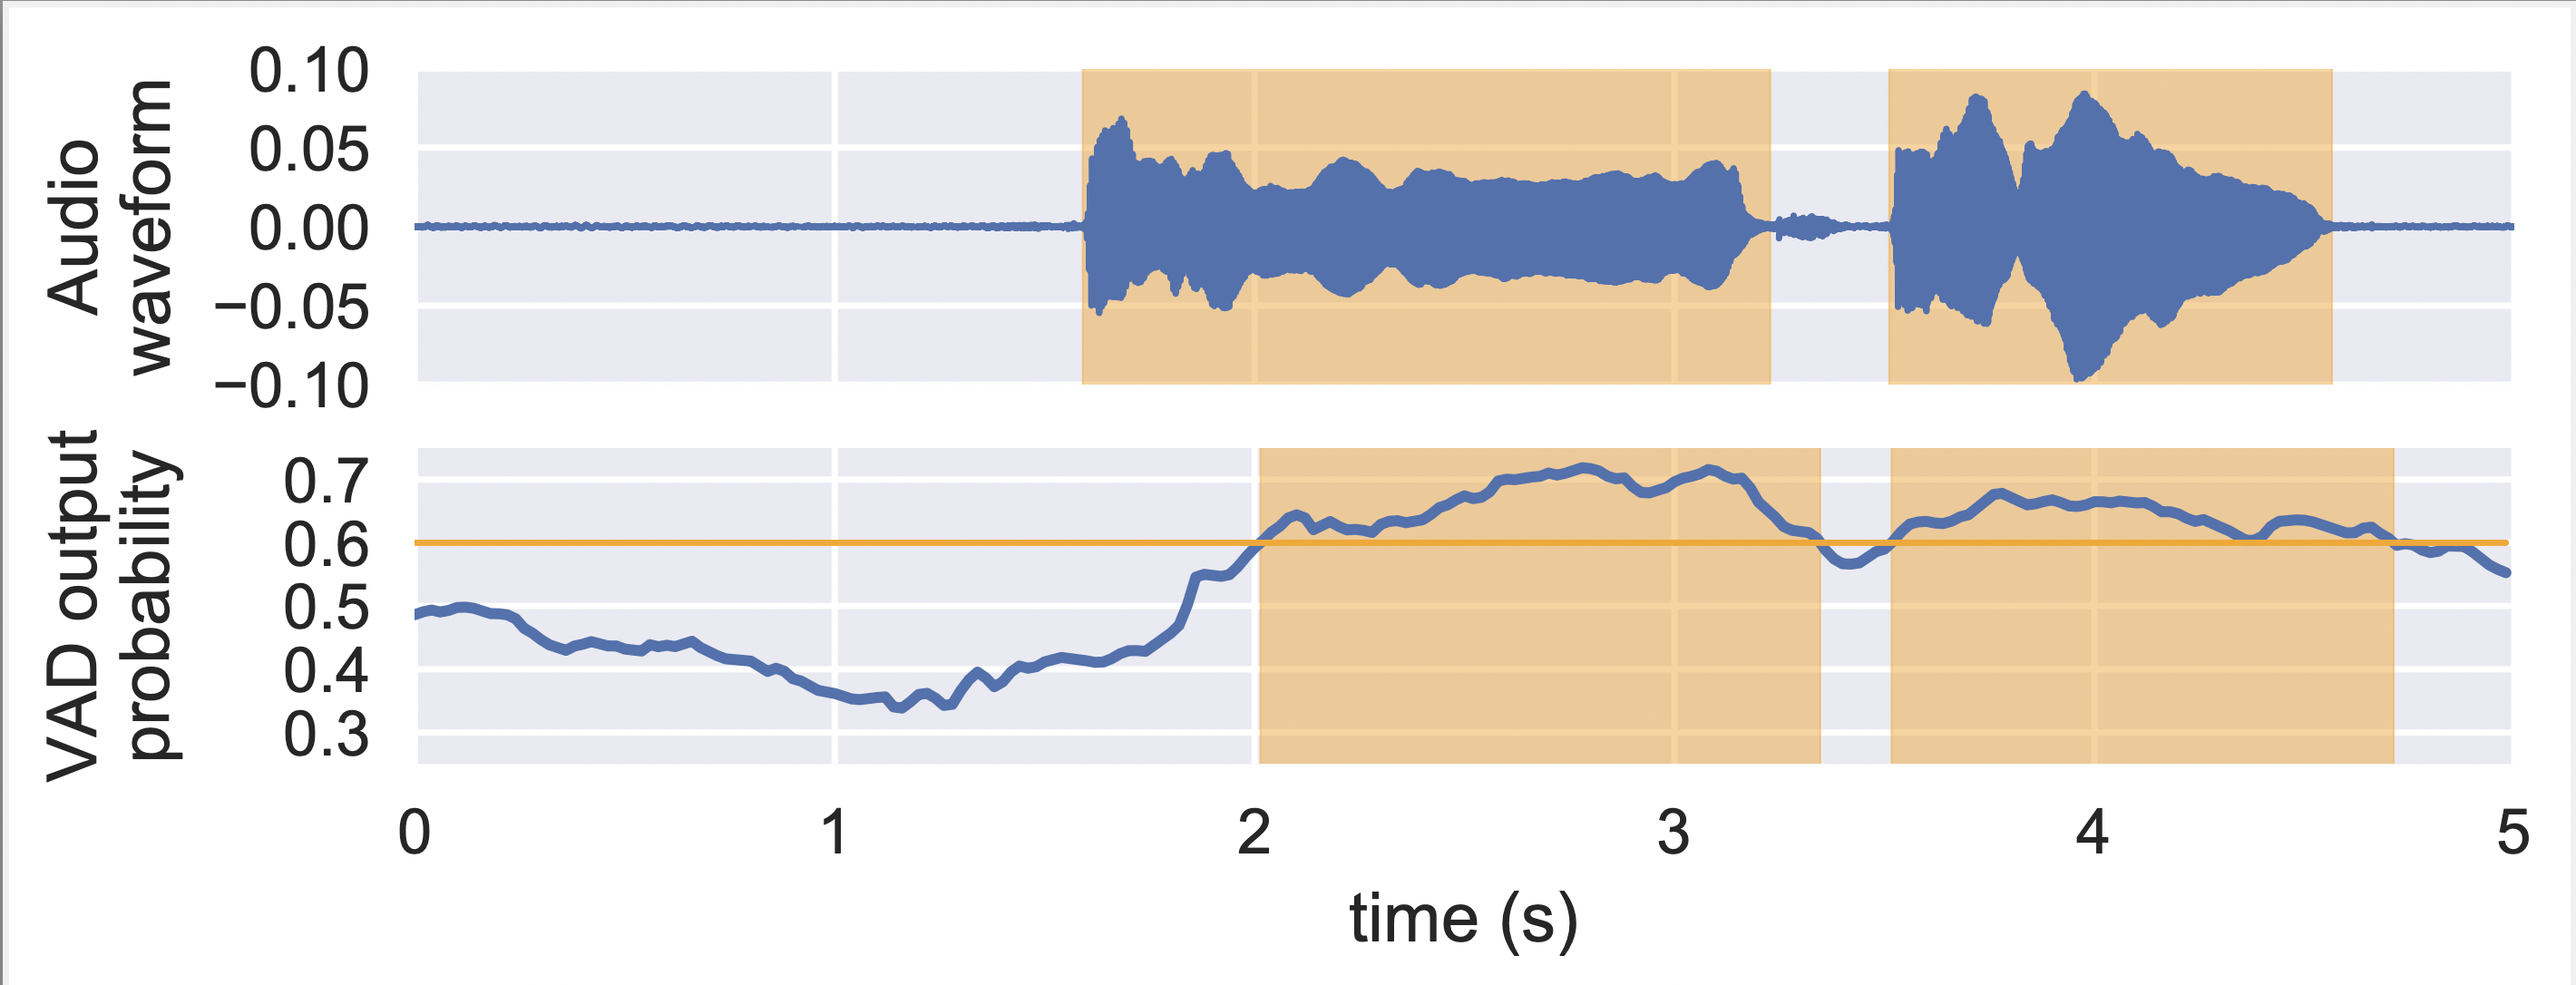
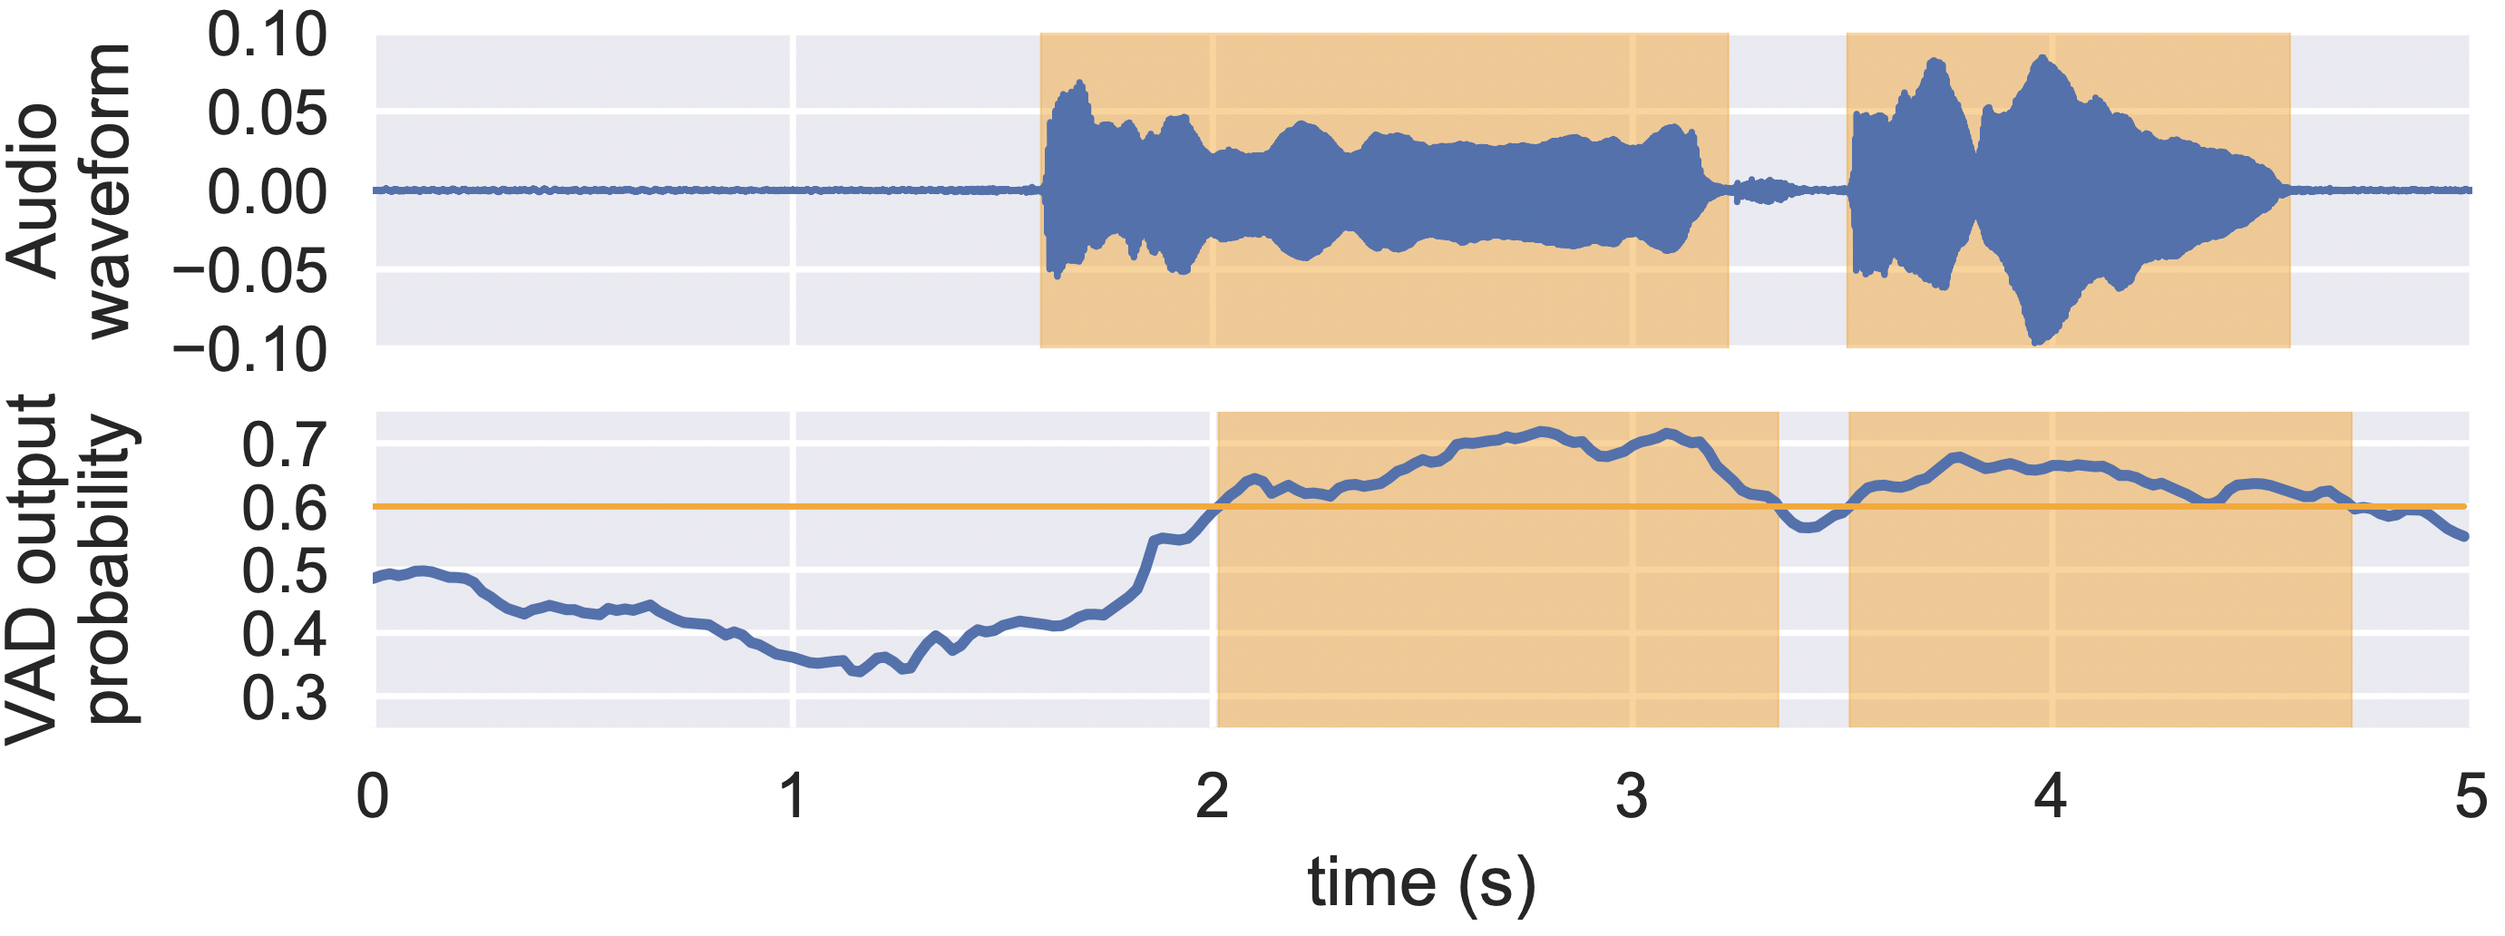
update

diff --git a/N20EM/ImuVAD/README.md b/N20EM/ImuVAD/README.md
@@ -13,5 +13,5 @@ python main.py /path/to/IMU_VAD_data
 
 ## Visualization
 <p align="center">
-<img src="../../assets/imu_vis.png" alt="" data-canonical-src="../../assets/imu_vis.png" width="100%"/>
+<img src="../../assets/imu_vis.png" alt="" data-canonical-src="../../assets/imu_vis.png" width="50%"/>
 </p>
